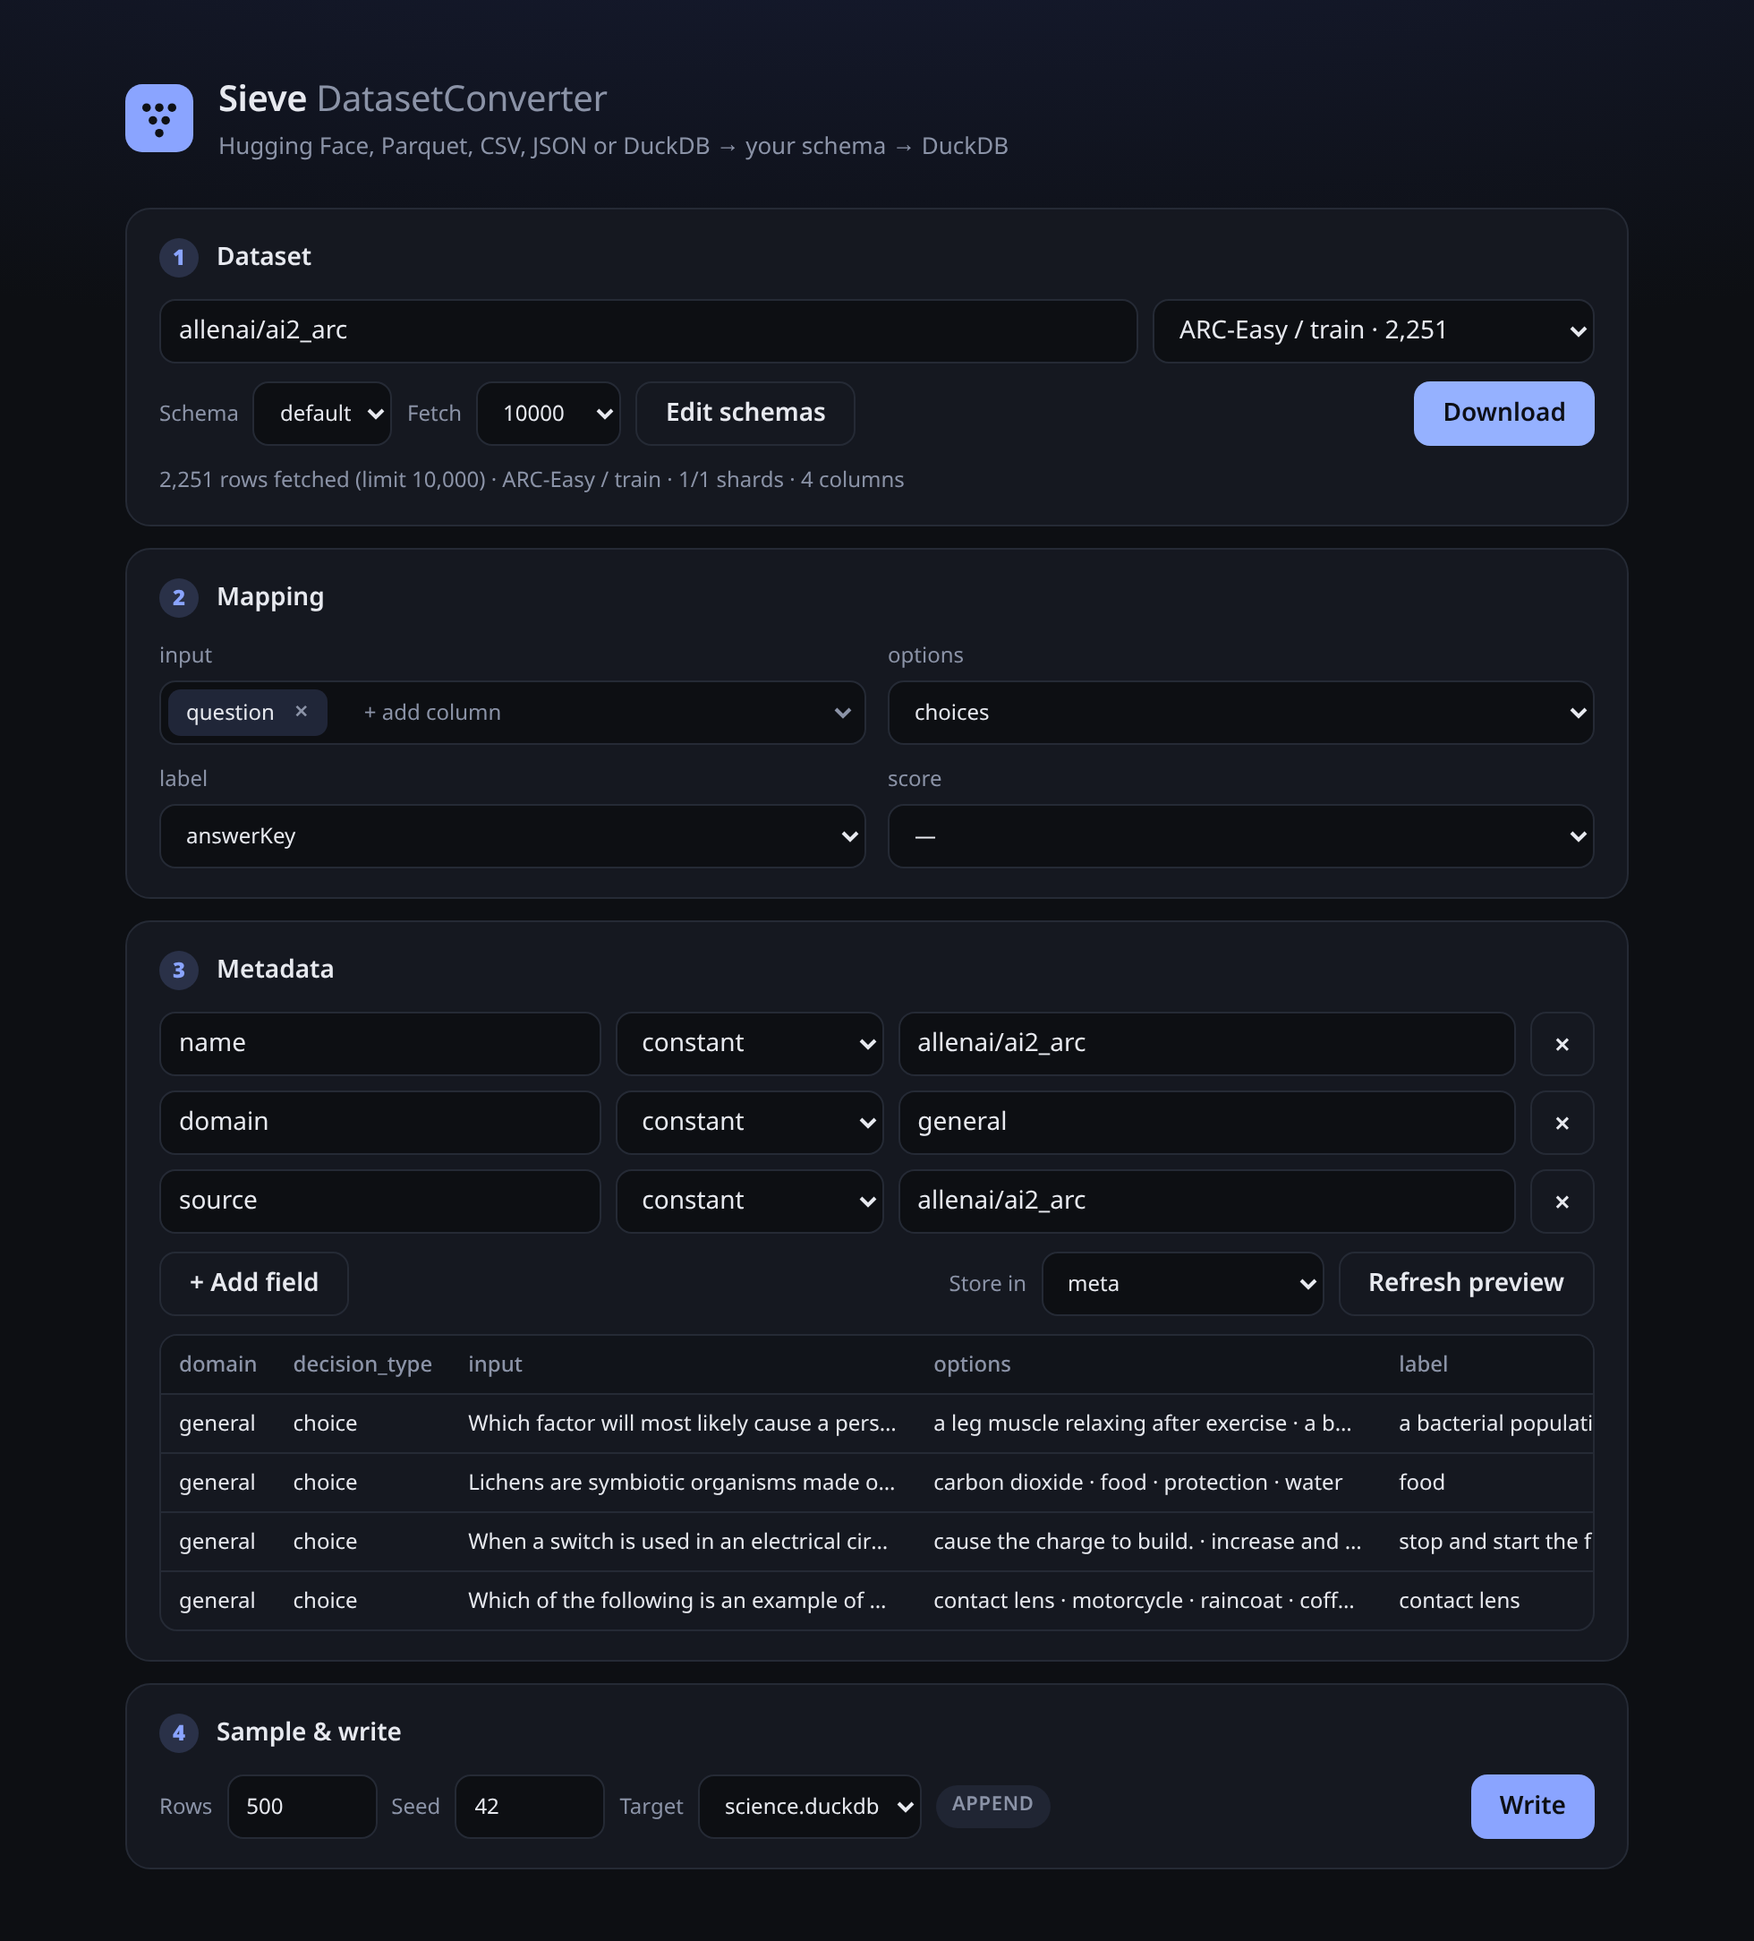
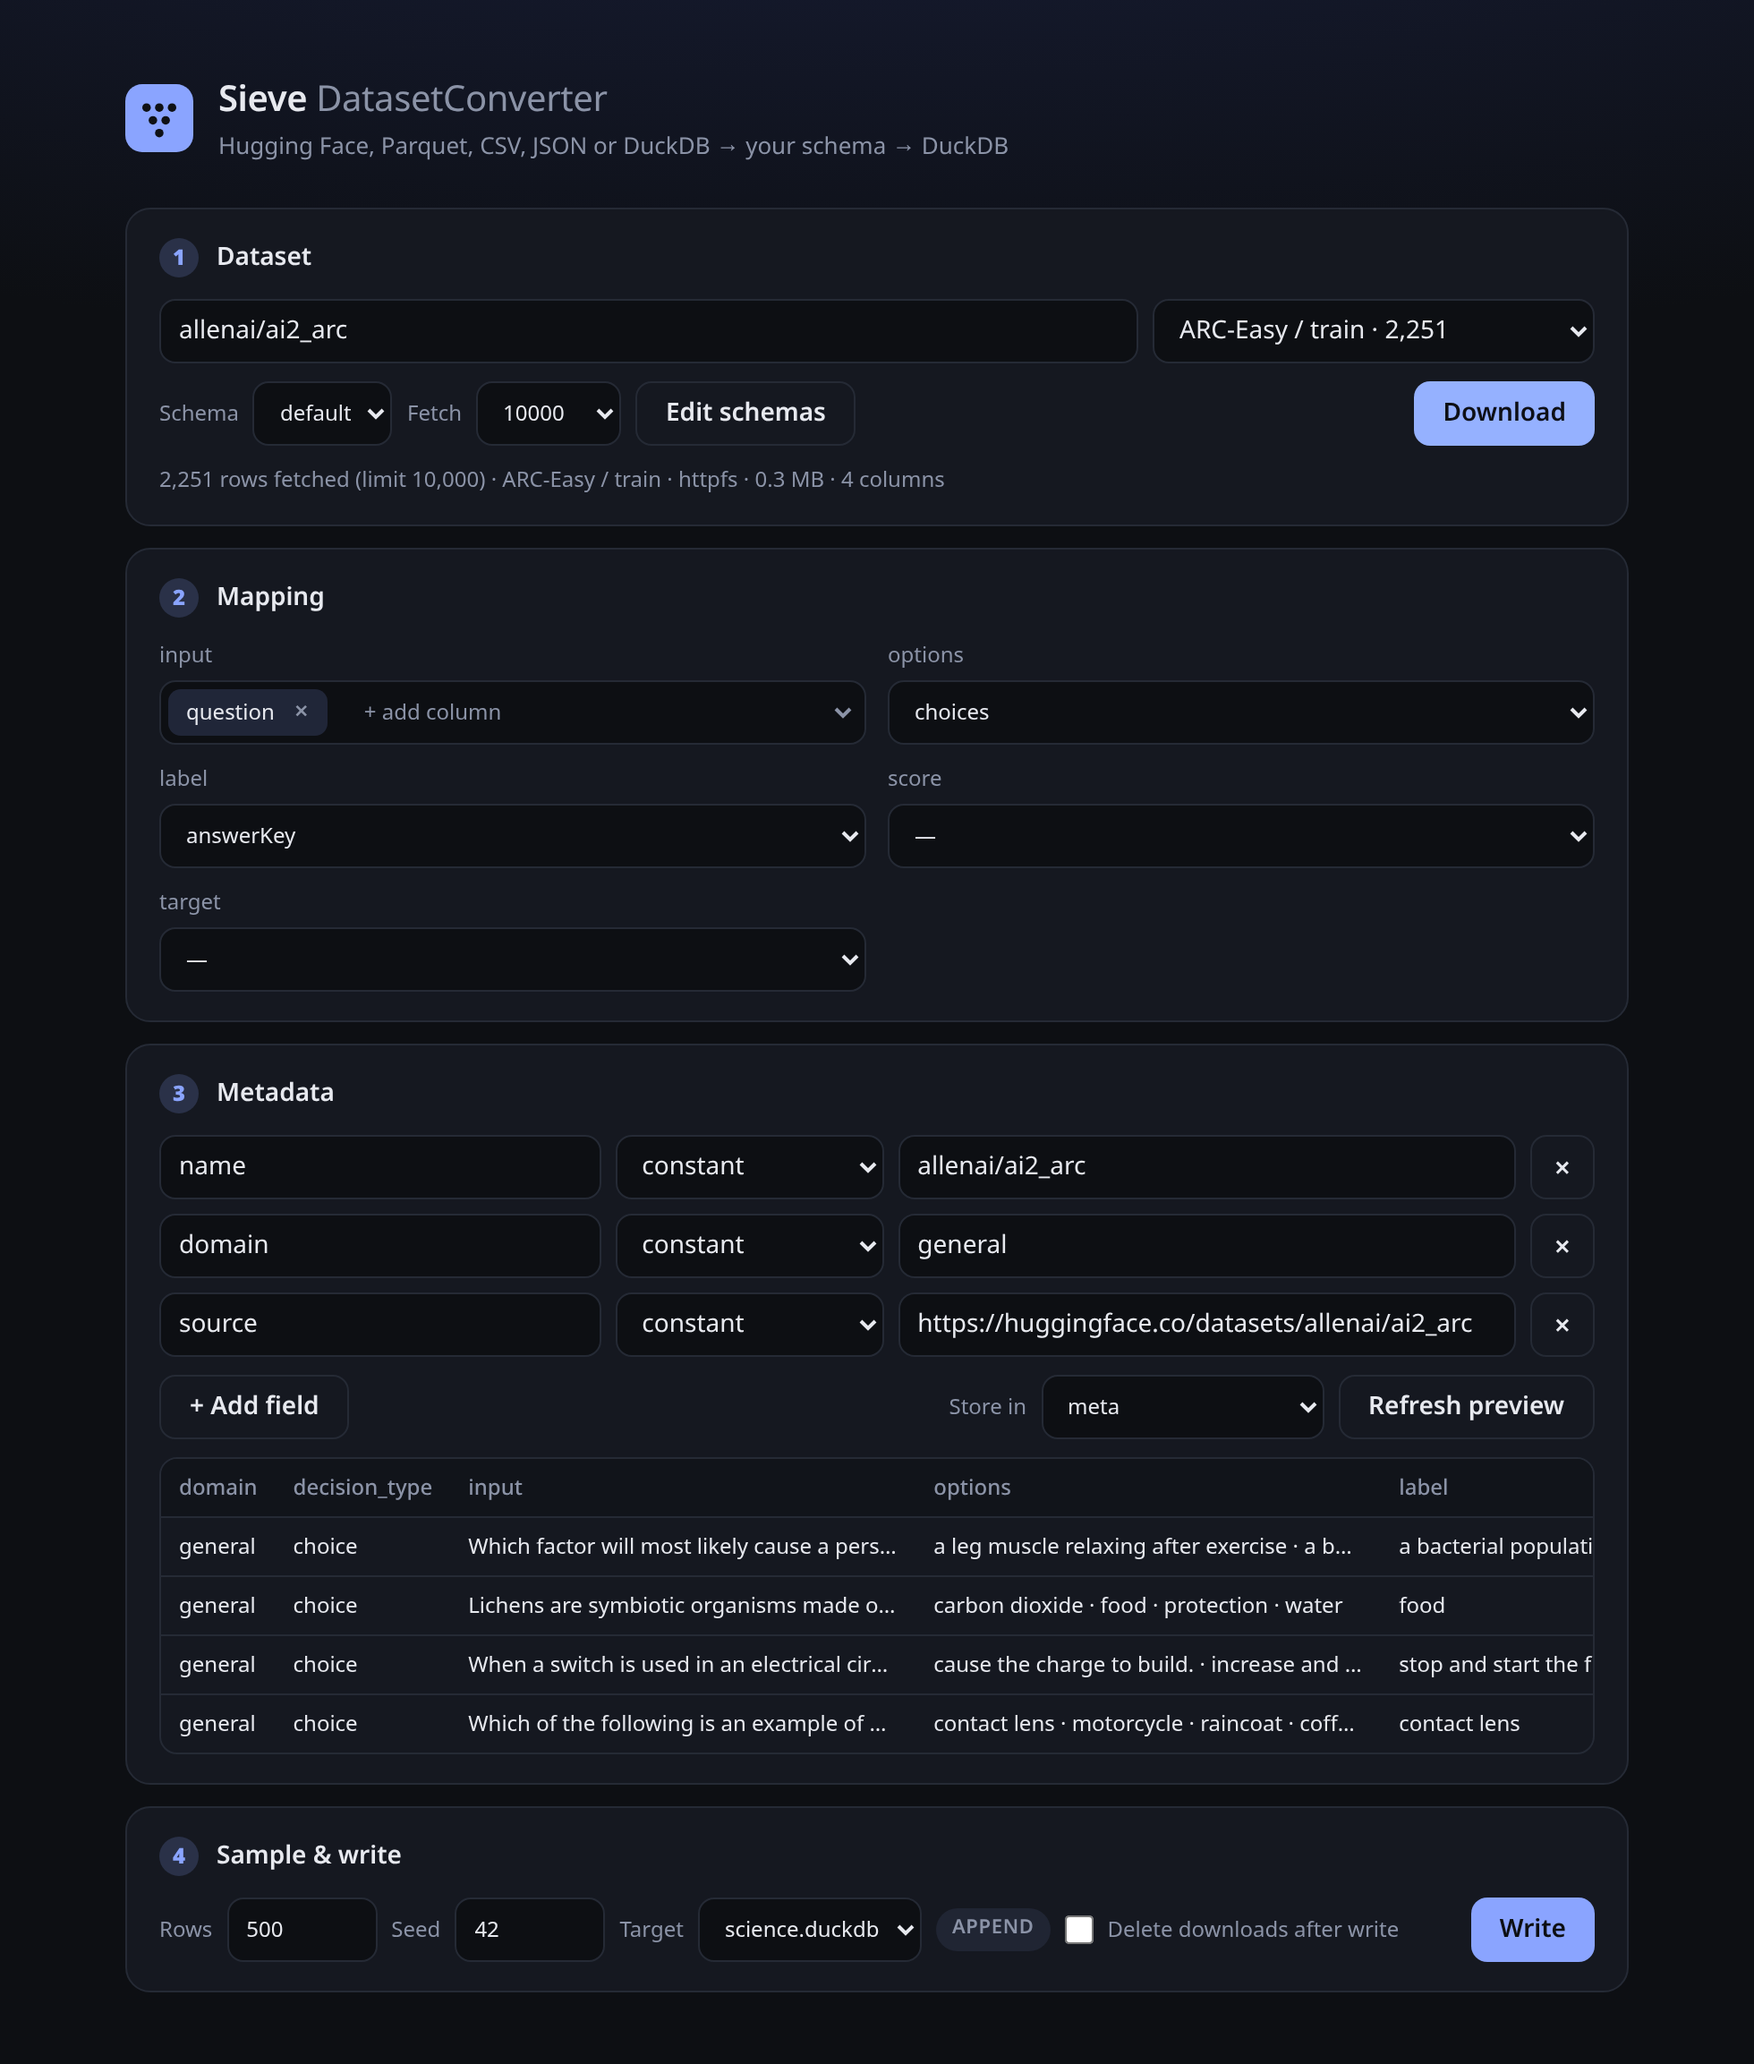
README: retake screenshots 2, 3 and 5 (target mapping row, httpfs fetch info, HF URL source)

diff --git a/README.md b/README.md
@@ -13,7 +13,7 @@ Node 20+, no Docker. Env: `PORT` (3000), `DATA_DIR` (`data`: downloads and `.duc
 **1 · Dataset**: type `org/name` and the config/split dropdown fills from the Hugging Face API. You can also paste a file URL or a local path. Choose a schema and how many rows to fetch (default 10,000, or `all`). With a limit, Hugging Face data is read remotely: DuckDB `httpfs` range-reads only the row groups it needs and stops across shards once the limit is reached (1,000 rows of a 41-shard Wikipedia split: ~14 MB instead of a 420 MB shard). By default (`fetch: "random"`) the rows are a seeded random subset of seeded random row groups spread over up to 16 shards, so a sorted split (e.g. IMDB, all `neg` first) still gives a mix. A row group gives at most `max_rows_per_group` rows (default `ceil(limit/16)`, so at least 16 groups when there are that many), or set `row_groups: N`. More groups spread the sample better but cost more bytes, because a group's column chunks are read whole: 1,000 IMDB rows give 1000/0 labels from 1 group (1.7 MB), 625/375 from 8 (7.6 MB), 559/441 from 16 (14.3 MB, the default) and 504/496 from all 25 (20.9 MB); 1,000 SHP rows cover 1, 6, 8, 12 and 15 of its subreddits with 1, 8, 16, 32 and 63 groups (1.2, 2.9, 5.1, 11.9 and 24.8 MB). The result reports `hf.row_groups`, `hf.network_bytes` (bytes downloaded, measured), `hf.data_bytes` (compressed column chunks the read needed, from the Parquet metadata) and `hf.cached_bytes` (the part of `data_bytes` that came from DuckDB's in-memory cache instead of the network; a re-import of the same rows in one server session downloads ~0 bytes, e.g. SHP 0 B with 4.6 MB cached, PKU-SafeRLHF 0 B with 9.9 MB cached); `fetch: "head"` takes the first N rows (small heads use the datasets-server `/rows` API). `all`, or a failed remote read, downloads whole shards. Only the columns the import needs are read: `columns` if given, else the roots of the `mapping`/`metadata`/`where` passed to the import (HelpSteer3, 2,000 rows: 7.0 MB with 4 columns vs 10.7 MB for all). `gold_from` columns in `field_options` are read too. The seeded sample in step 4 is drawn from the fetched rows. `source_row` is `shard × 10⁹ + row in shard`.
 ![](docs/screenshots/1-dataset.png)
 
-**2 · Mapping**: each schema field gets source columns suggested from its name and `aliases`. `join` fields take several columns, shown as chips. Over MCP a mapping entry can also be a nested path: `a.b[0].c`, or `completions[*].response` for a list of values.
+**2 · Mapping**: each schema field gets source columns suggested from its name and `aliases`. `join` fields take several columns, shown as chips. `target` (the `{probabilities}` distribution) is built from the label when left empty (`—`), or from its own columns (e.g. a soft score, or one score column per option). Over MCP a mapping entry can also be a nested path: `a.b[0].c`, or `completions[*].response` for a list of values.
 ![](docs/screenshots/2-mapping.png)
 
 **3 · Metadata**: a key/value list. Each value is either a constant or copied per row from a source column (a nested path or `source_row` works too). Constants keep JSON types: `3`, `true` and `[1,2]` are stored as a number, a boolean and a list. Choose the schema column it goes into (default `meta`). When a value is cut by `max_chars`/`max_items`, the row's metadata gets `truncated: true` and `truncated_fields`. The table previews converted rows.
